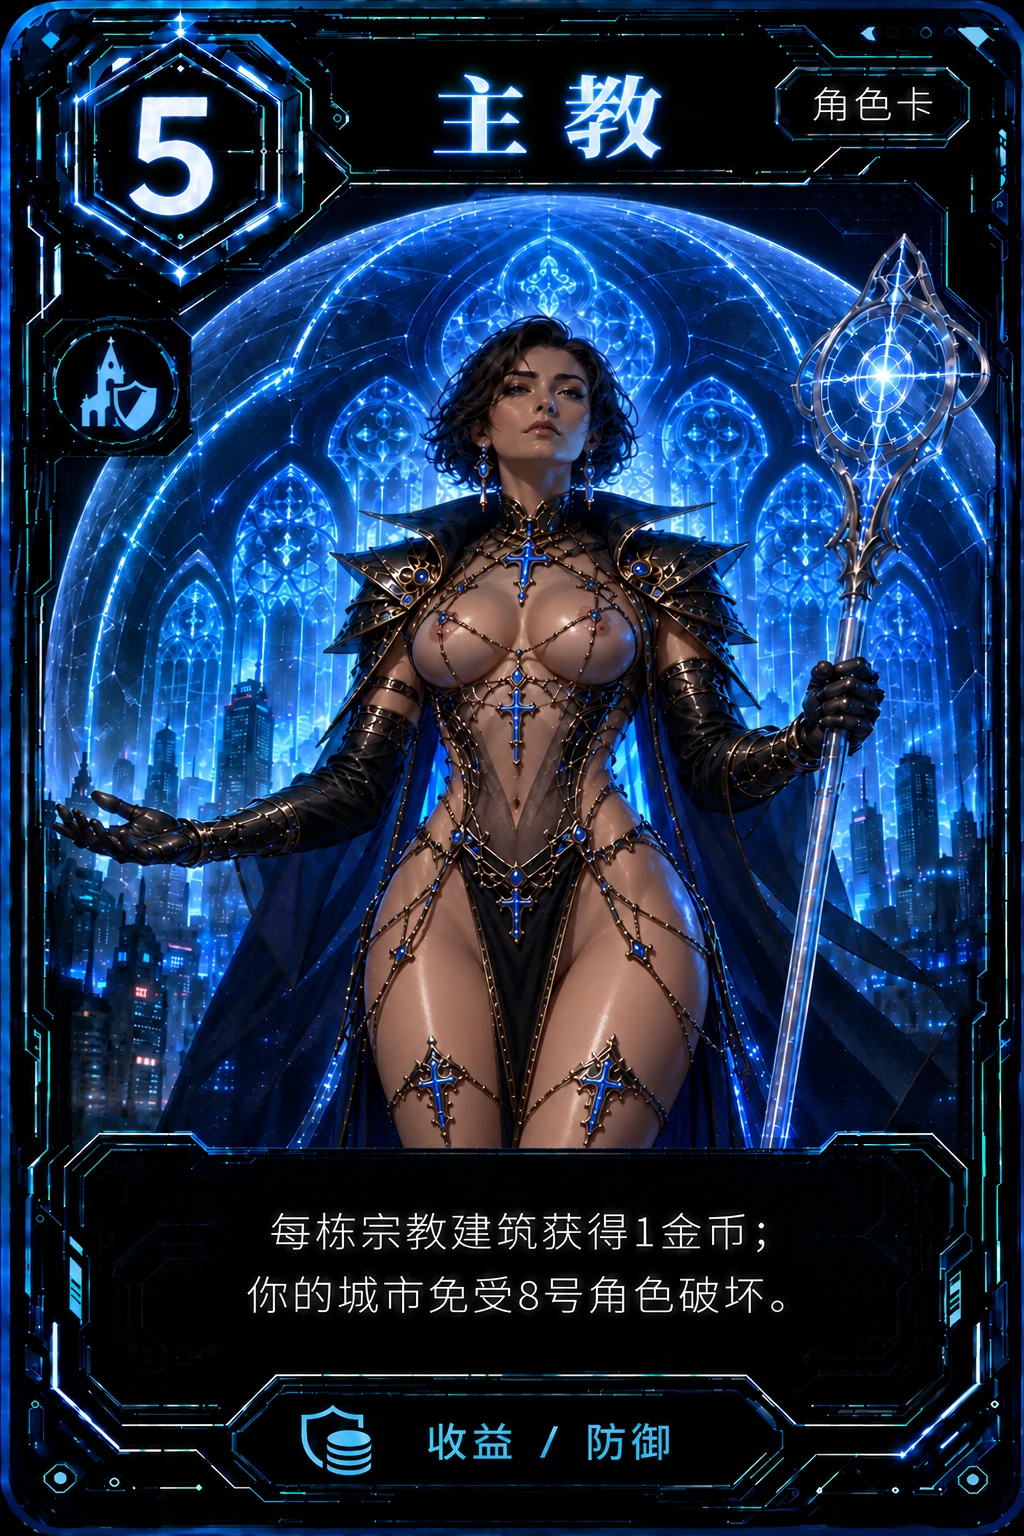
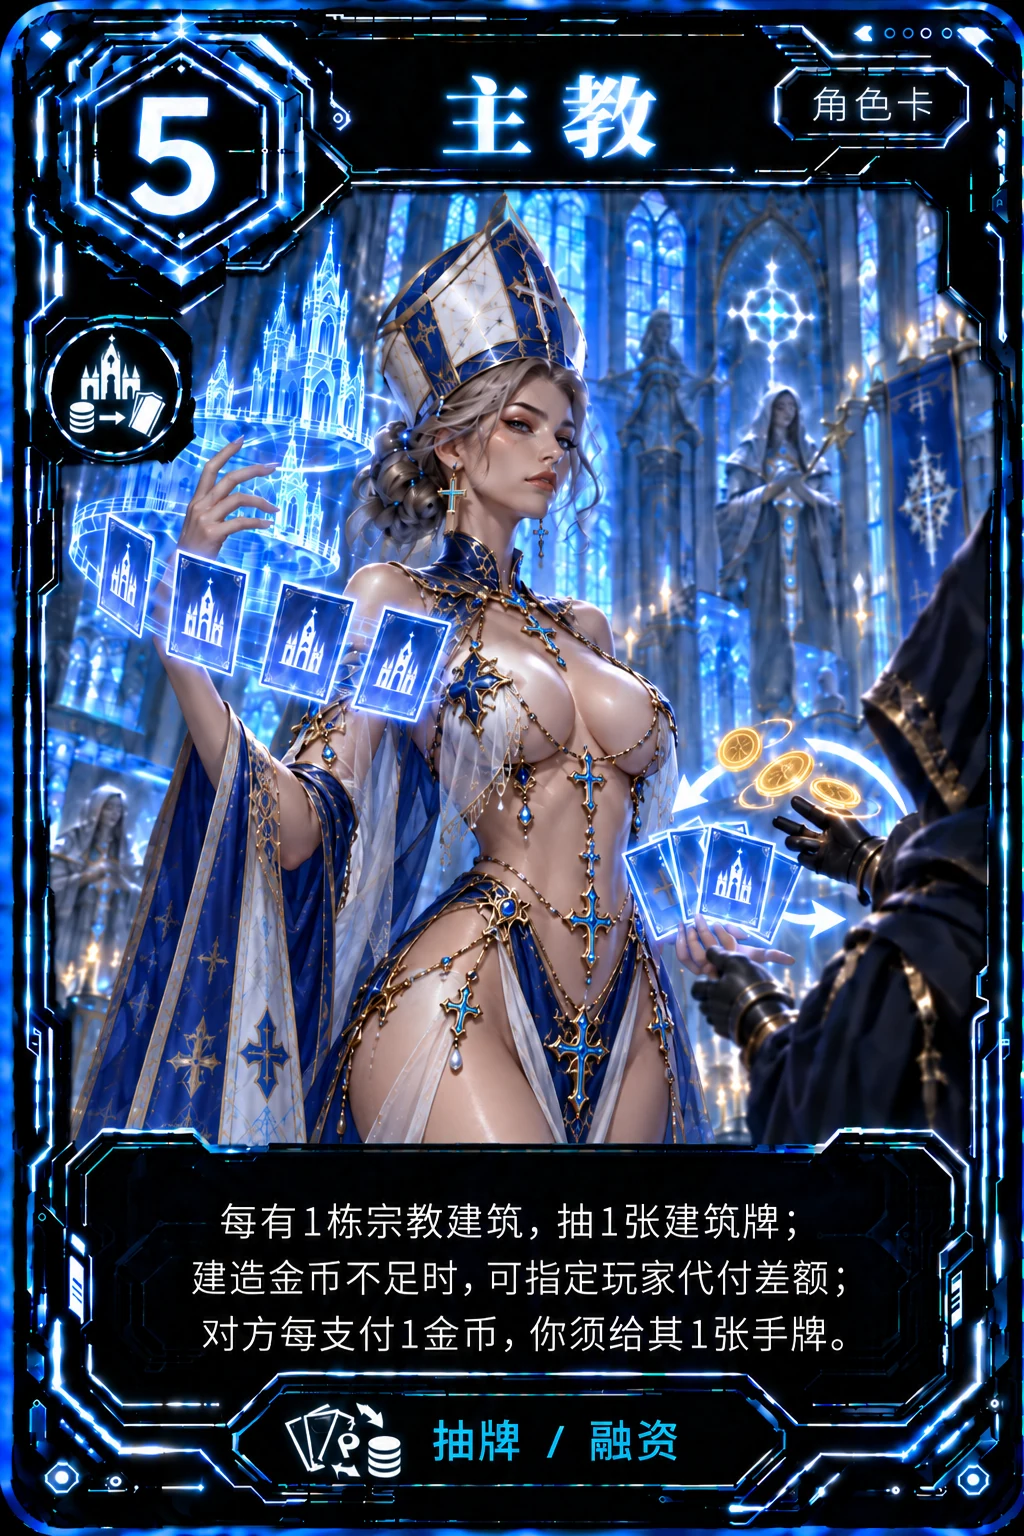
feat(theme): 新增 6 个主题专属角色立绘并替换贵族/主教
主题包新增主题专属角色（游戏代码暂未接入）：magistrate 行政官(1)、spy 间谍(2)、blackmailer 勒索者(2)、wizard 法师(3)、abbot 住持(5)、tax_collector 税务官(9)；替换 noble、bishop 立绘；manifest roleIds 扩至 27；theme-assets 测试支持主题专属角色。

diff --git a/test/theme-assets.js b/test/theme-assets.js
@@ -31,7 +31,10 @@ function checkEntry(label, entry) {
   });
 }
 
+// 每个游戏角色都必须有主题立绘。
 Cards.CHARACTERS.forEach(c => checkEntry('角色 ' + c.id, manifest.cards.roles[c.id]));
+// manifest 中的每个角色（含「主题专属」——已配立绘但尚未接入游戏代码的新角色）也必须文件完整。
+Object.keys(manifest.cards.roles).forEach(id => checkEntry('角色 ' + id, manifest.cards.roles[id]));
 Cards.DISTRICTS.forEach(d => {
   const key = 'district_' + safeKey(d.en || d.name);
   checkEntry('建筑 ' + d.name + ' [' + key + ']', manifest.cards.districts[key]);
@@ -48,7 +51,8 @@ if (!graveyardCard || graveyardCard.cost !== 5 || !/支付1枚金币/.test(grave
 
 const roleKeys = Object.keys(manifest.cards.roles);
 const districtKeys = Object.keys(manifest.cards.districts);
-if (roleKeys.length !== Cards.CHARACTERS.length) throw new Error('角色 manifest 数量不匹配');
+if (roleKeys.length < Cards.CHARACTERS.length) throw new Error('角色 manifest 数量不足');
 if (districtKeys.length !== Cards.DISTRICTS.length) throw new Error('建筑 manifest 数量不匹配');
 
-console.log('✓ neon 资源完整：' + roleKeys.length + ' 个角色 × 2，' + districtKeys.length + ' 个建筑 × 2');
+const extraRoles = roleKeys.filter(id => !Cards.CHARACTERS.some(c => c.id === id));
+console.log('✓ neon 资源完整：' + roleKeys.length + ' 个角色 × 2（含主题专属 ' + extraRoles.length + ' 个：' + extraRoles.join('、') + '），' + districtKeys.length + ' 个建筑 × 2');

diff --git a/public/themes/neon/manifest.js b/public/themes/neon/manifest.js
@@ -7,10 +7,11 @@
 
   const base = 'assets/themes/neon/cards/';
   const roleIds = [
-    'assassin', 'witch', 'thief', 'magician', 'prophet', 'king', 'emperor',
-    'noble', 'bishop', 'monk', 'merchant', 'alchemist', 'businessman',
-    'architect', 'navigator', 'scholar', 'warlord', 'diplomat', 'marshal',
-    'queen', 'artist'
+    'assassin', 'witch', 'magistrate', 'thief', 'spy', 'blackmailer',
+    'magician', 'prophet', 'wizard', 'king', 'emperor', 'noble', 'bishop',
+    'monk', 'abbot', 'merchant', 'alchemist', 'businessman', 'architect',
+    'navigator', 'scholar', 'warlord', 'diplomat', 'marshal', 'queen',
+    'artist', 'tax_collector'
   ];
   const districtKeys = [
     'manor', 'castle', 'palace', 'temple', 'church', 'monastery', 'cathedral',
